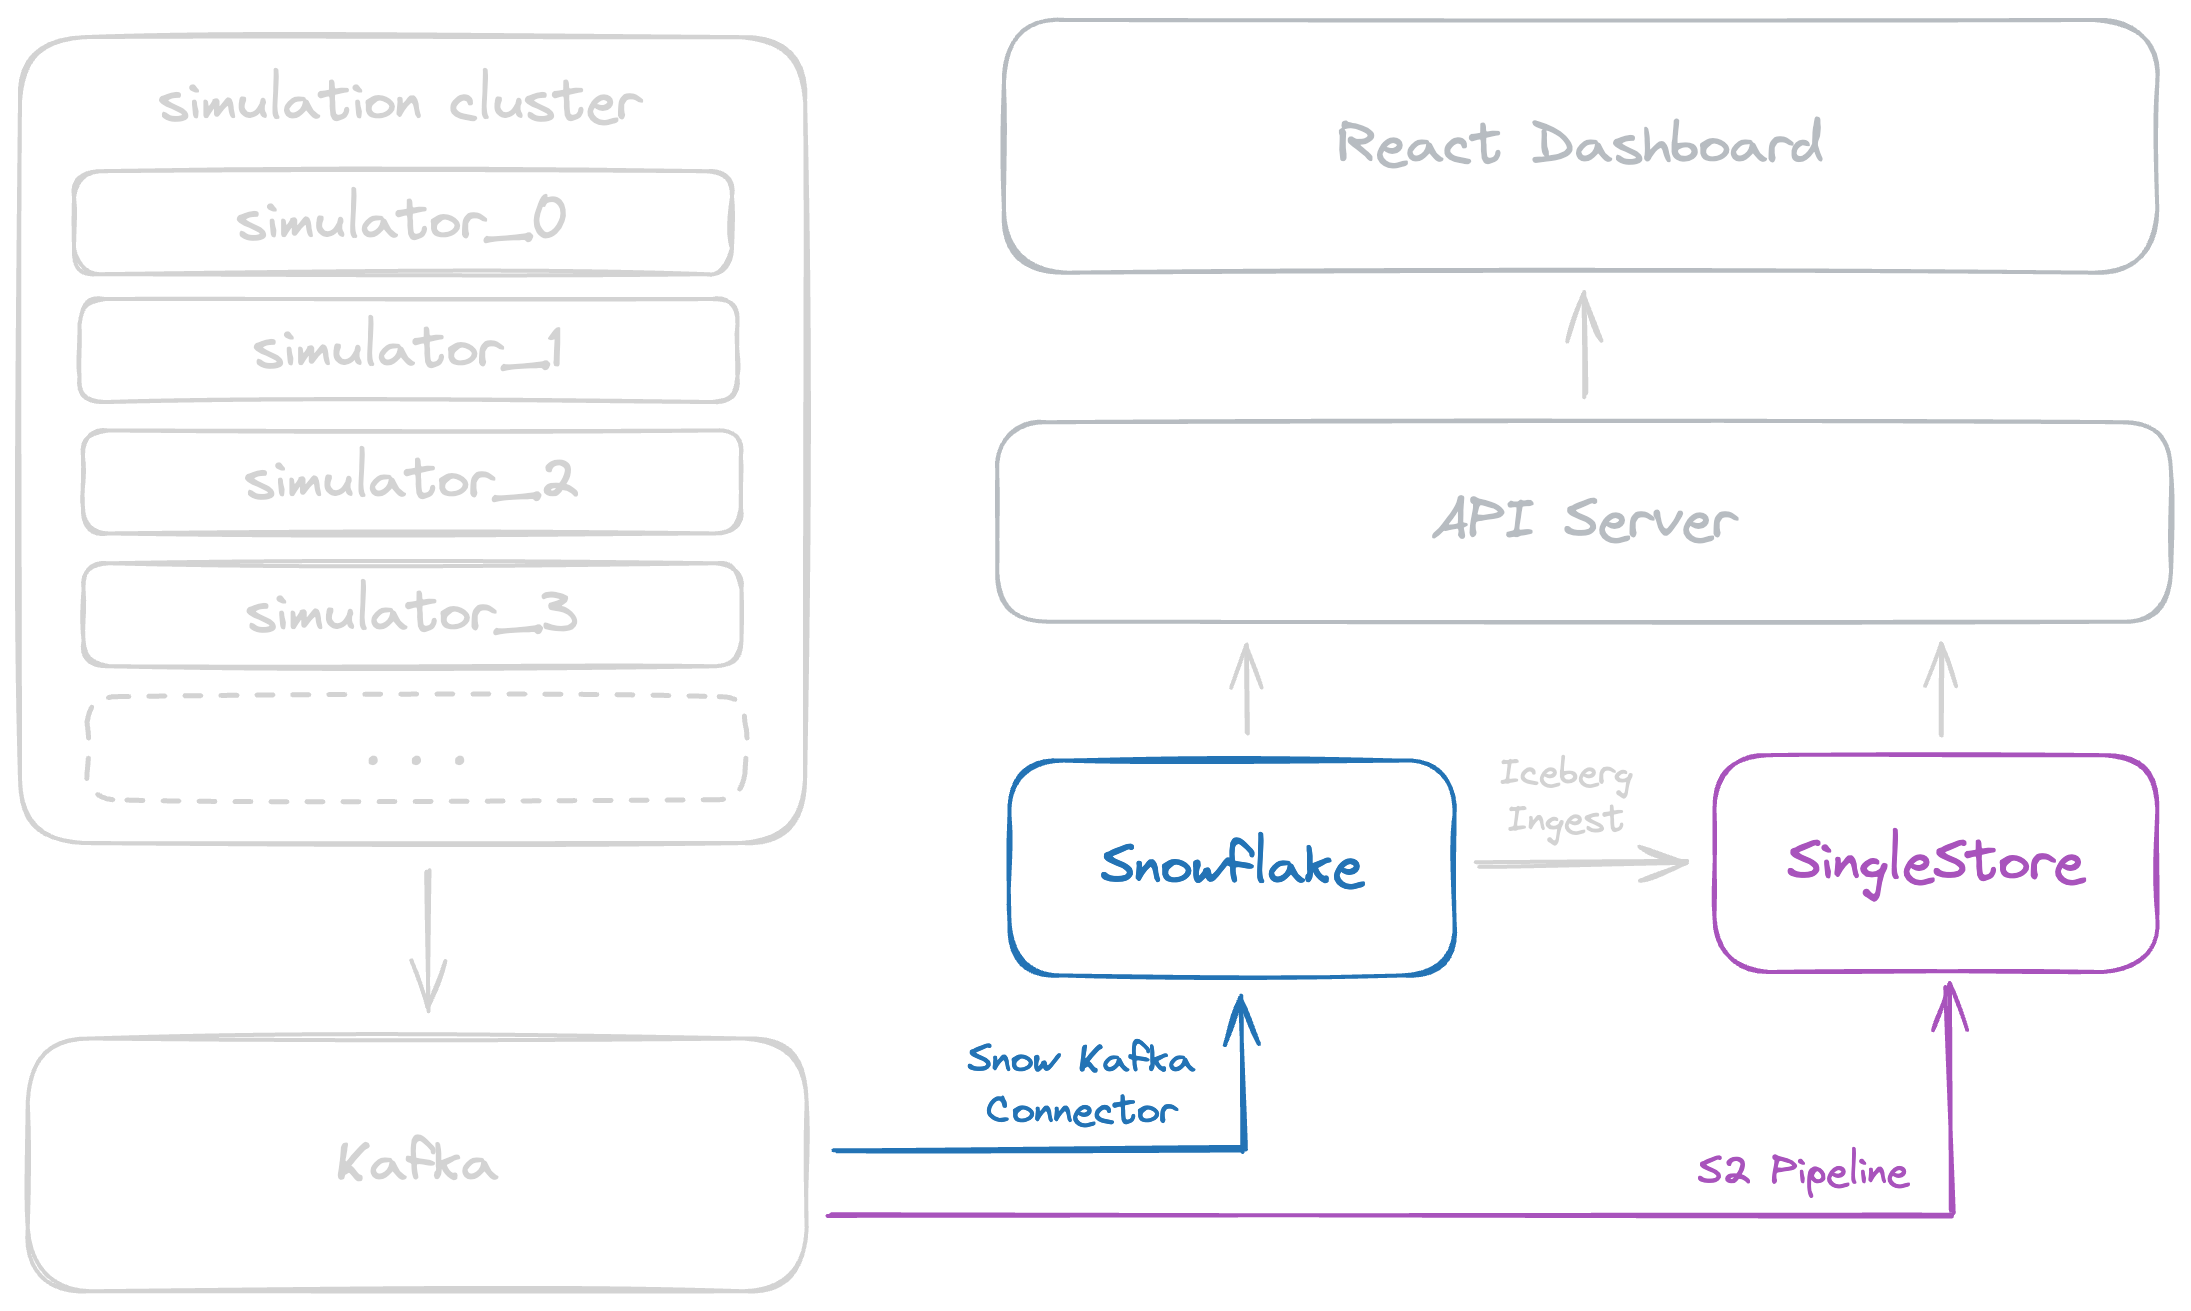
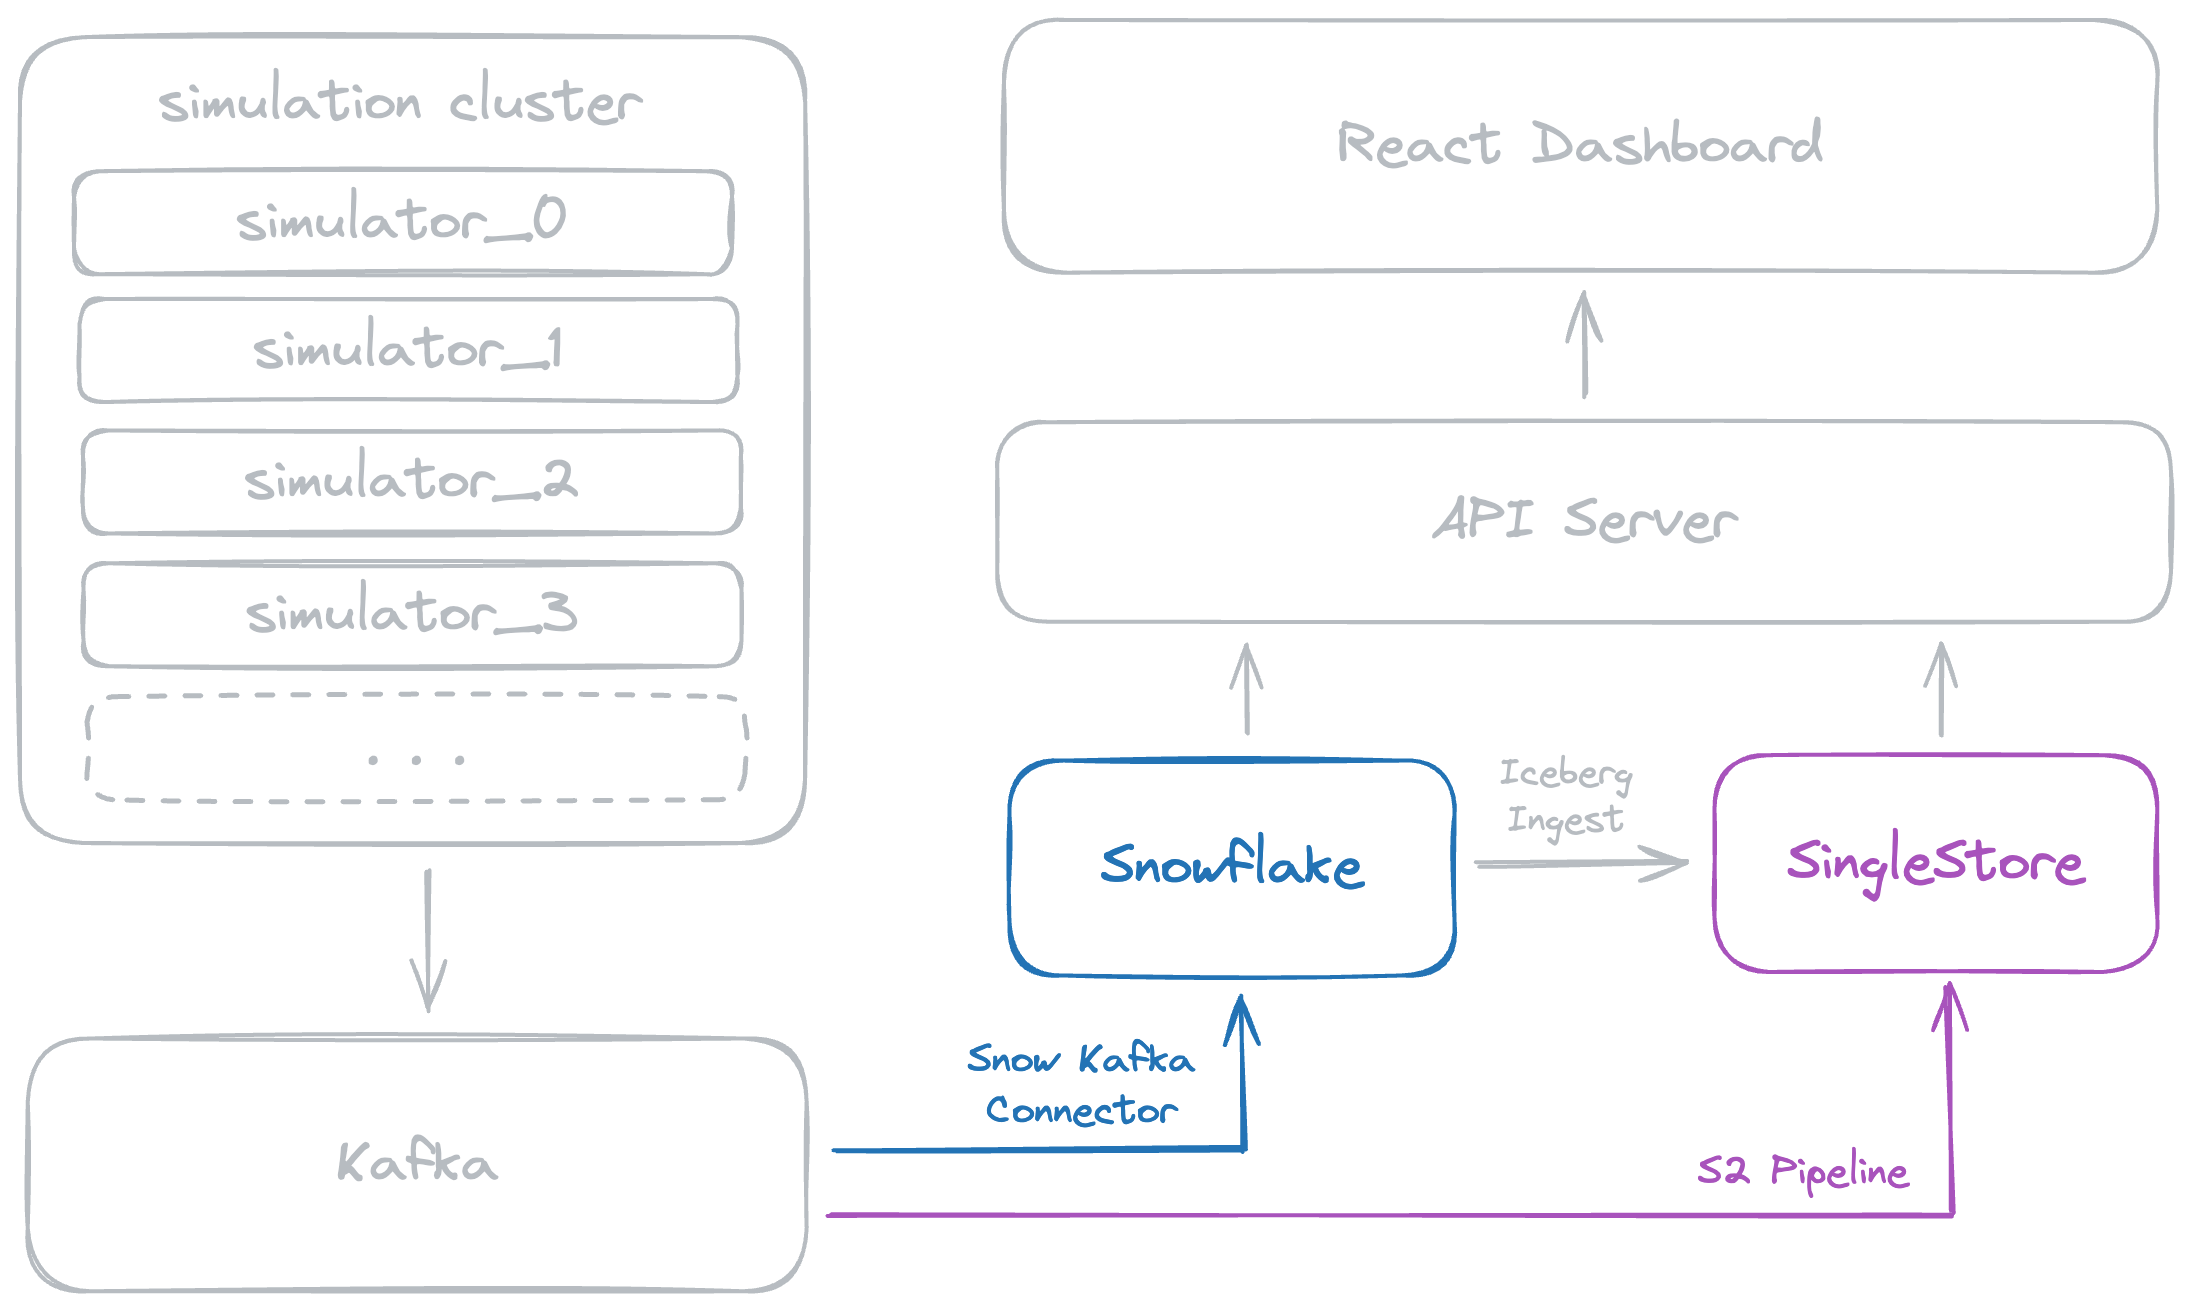
add snowflake sql

diff --git a/README.md b/README.md
@@ -2,7 +2,25 @@
 
 **Attention**: The code in this repository is intended for experimental use only and is not fully tested, documented, or supported by SingleStore. Visit the [SingleStore Forums](https://www.singlestore.com/forum/) to ask questions about this repository.
 
-## Usage
+## Overview
+
+<picture>
+  <source media="(prefers-color-scheme: dark)" srcset="/assets/overview_dark.png">
+  <source media="(prefers-color-scheme: light)" srcset="/assets/overview_light.png">
+  <img alt="Ridesharing demo architecture" src="/assets/overview_light.png">
+</picture>
+
+
+
+## Getting Started
+
+There's a couple of different setup steps required to run this demo.
+
+### Snowflake Setup
+
+### Kafka Setup
+
+### SingleStore Setup
 
 1. [Sign up](https://www.singlestore.com/cloud-trial/) for the SingleStore Free Shared Tier.
 2. Create a public/private key pair for the kafka connector to use.
@@ -18,4 +36,3 @@ cat kafka_key.pub | grep -v KEY- | tr -d '\012'
 * [Documentation](https://docs.singlestore.com)
 * [Twitter](https://twitter.com/SingleStoreDevs)
 * [SingleStore Forums](https://www.singlestore.com/forum)
-
